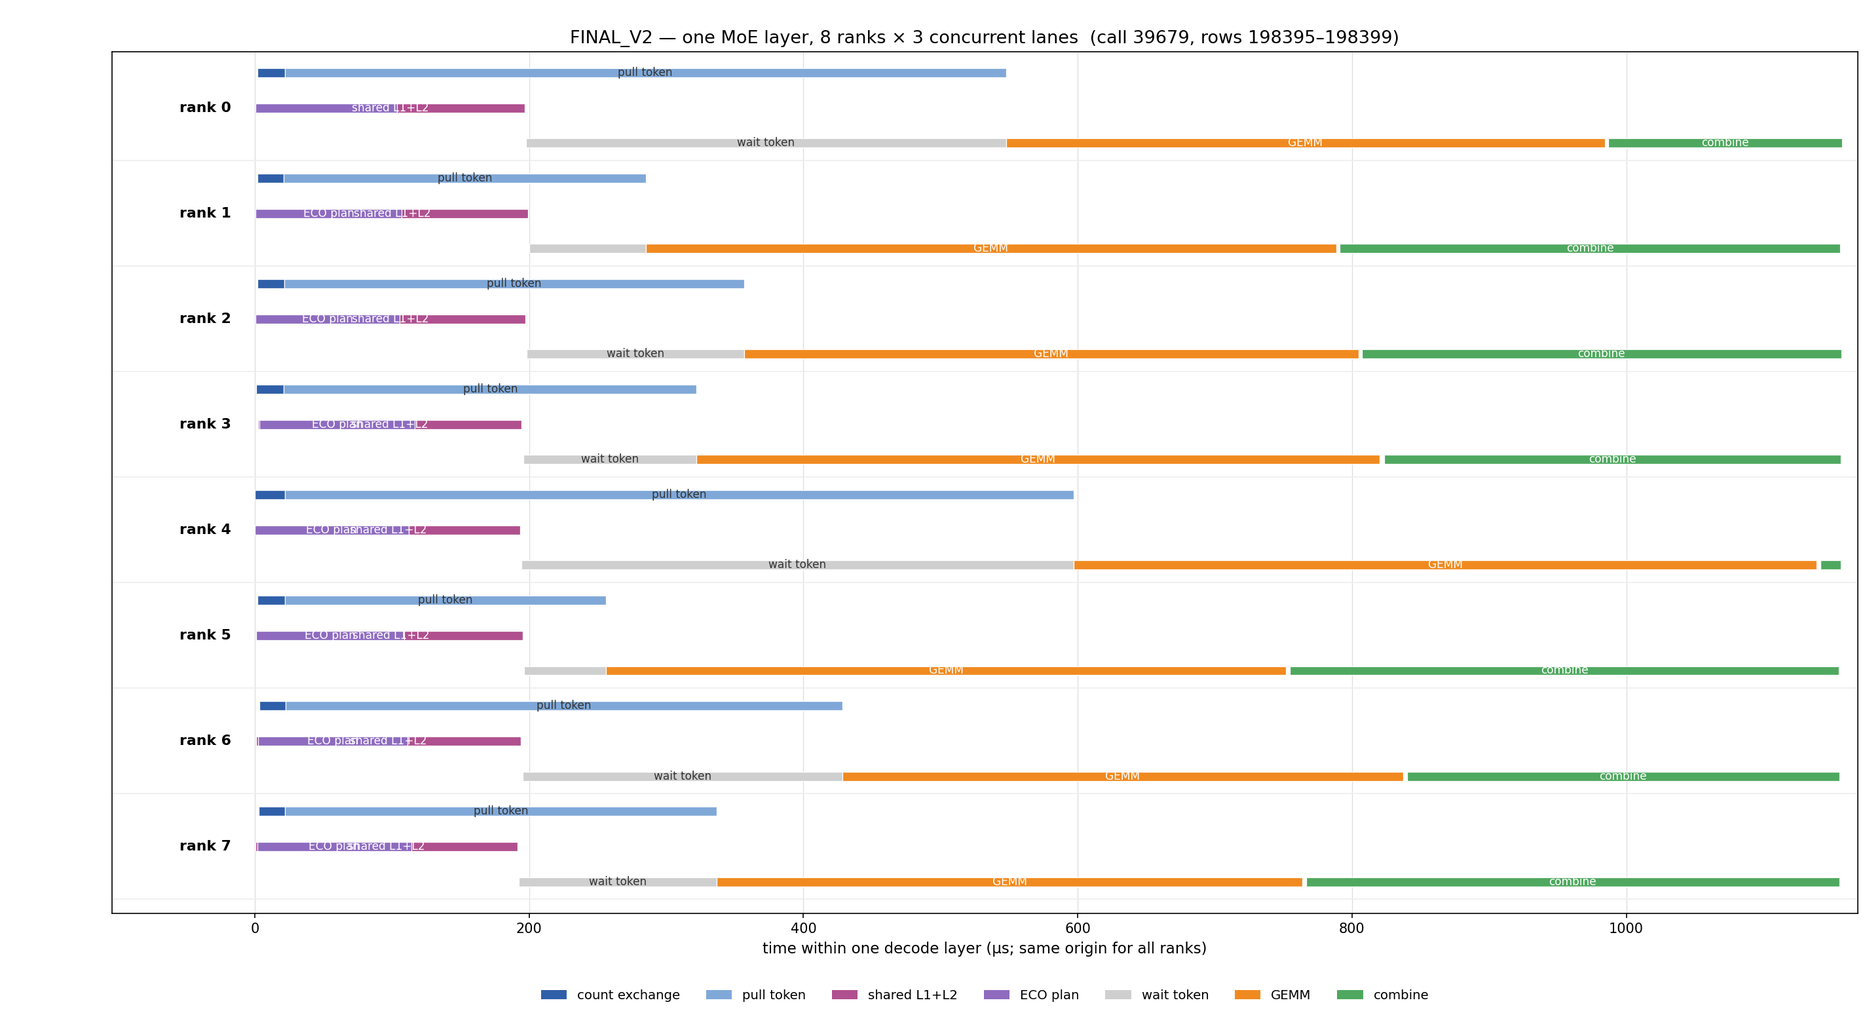
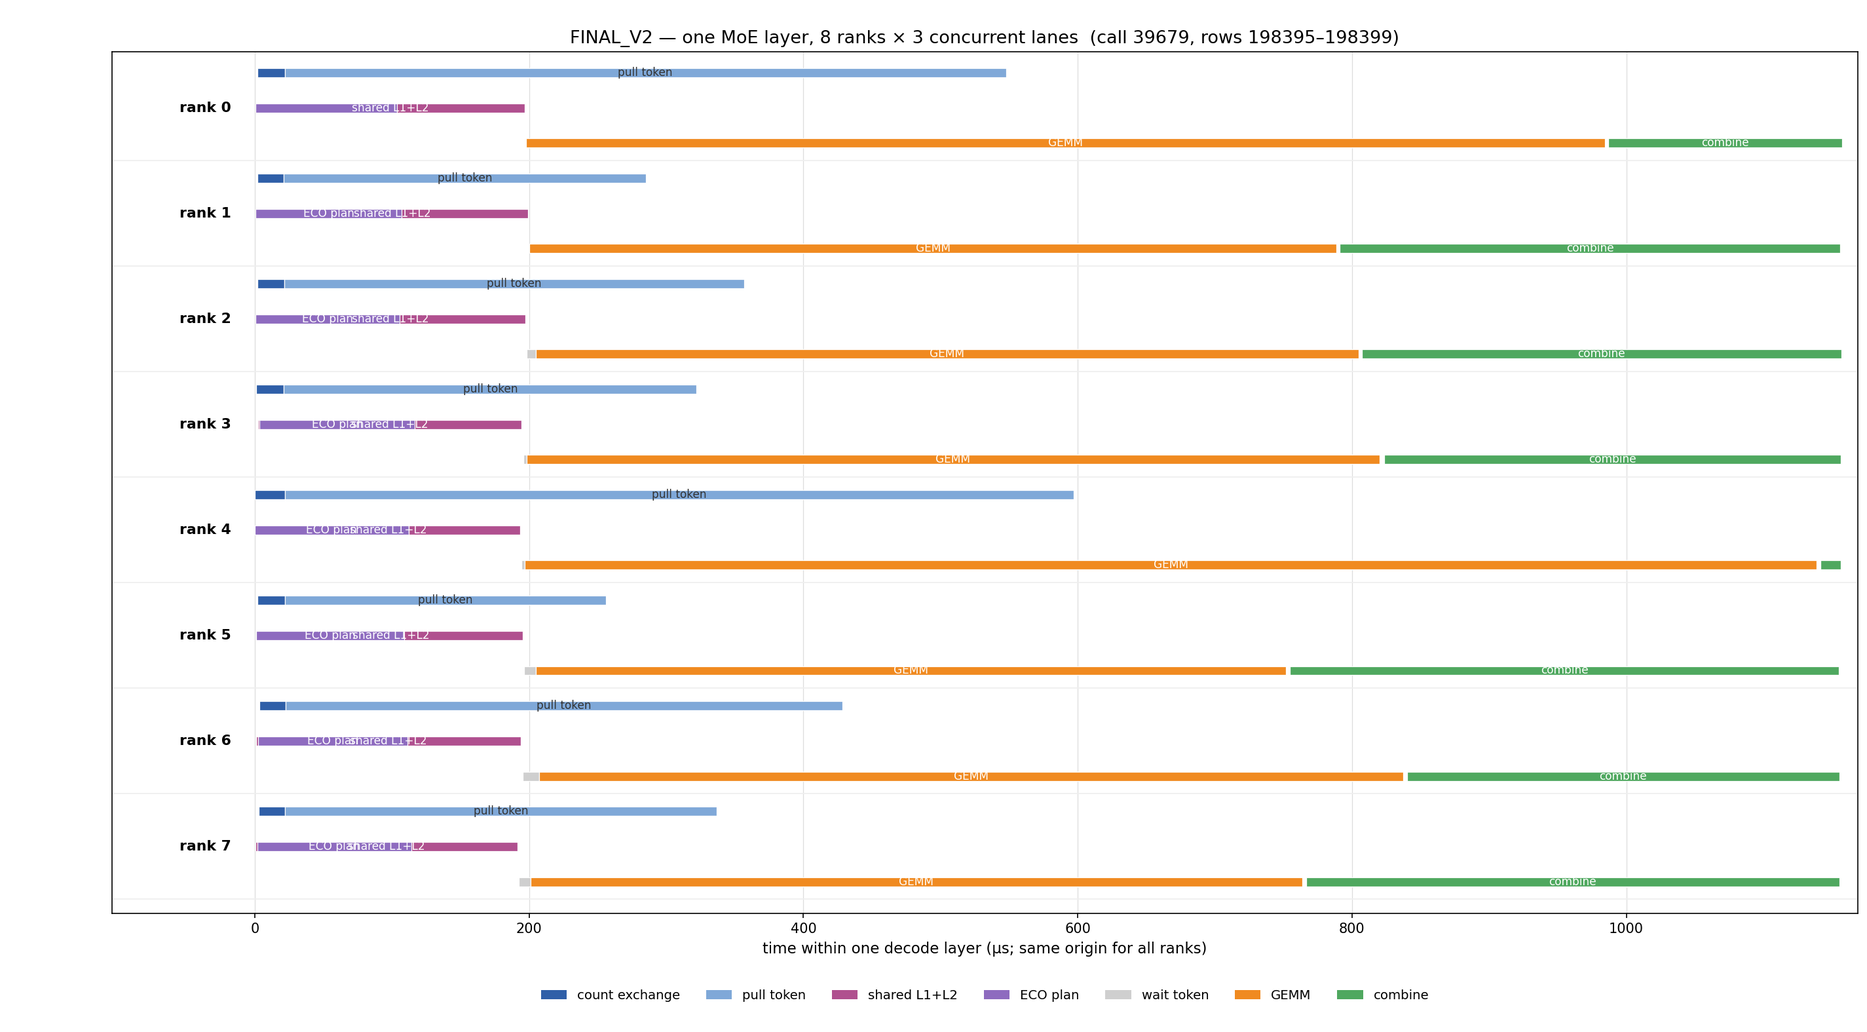
fix(trace): GEMM must start at the FIRST claimed task ([15]), not at last-slot-done ([5])
The previous version put the GEMM start at pull_tl[5] = 'last local slot finished
pulling'. That is wrong: a compute CTA begins its first M block as soon as that
block's rows have landed, which is exactly what pull_tl[15] stamps
(_pull_tl_min_first, red.min over CTAs). Using [5] invented a wait of 150-400 us
that does not exist and made GEMM look like it starts long after pull ended.

Measured on the same call (rows 198395-198399, epoch 87640, 8 ranks):
  first claimed task  : 196..204 us after dispatch entry
  last slot pulled    : 254..597 us after dispatch entry
  gap                 : 51..400 us (mean 190)

So GEMM and pull OVERLAP for 51-400 us. wait-token collapses to -0.1..+12.3 us
(negative = the first task is already ready when the routed kernel launches,
  confirmed by routed_start - dispatch_start = 193..195 us vs [15]-[10] = 197..200 us).

Recomputed segments (mean over 8 ranks, us):
  count exchange 19.9 | pull token 369.5 | shared 194.0 | plan 108.7
  wait token  5.1 | GEMM 659.8 | combine 292.2

All five physical checks still pass 8/8; wait+GEMM == routed span exactly.
Docs section 2 now spells out the two different 'token ready' instants, and
section 5 tabulates the pull/GEMM overlap per rank.

Also records that pull_tl (globaltimer) vs trace (CUPTI) differ by -14..+16 us
(median +3.8) over 256 calls, which is why a per-call GEMM-start delta can be
slightly negative; the raw value is kept in checks.

diff --git a/docs/final_orig_layer/scripts/build_layer.py b/docs/final_orig_layer/scripts/build_layer.py
@@ -73,20 +73,31 @@ def build(rows_by_rank, pulls, epoch, t0):
         p = pulls[r][epoch]
         d0 = st(D)
         d_end = en(D)                       # dispatch kernel's own end
-        count_ex = p[3] - p[10]
-        # The kernel stamp can finish a few us after CUPTI closes the launch
-        # (median -2.3 us, p90 +39 us); clamp to the launch so the segment
-        # never leaves its own kernel.
+        count_ex = p[3] - p[10]             # routing + count exchange
+        # Two DIFFERENT "token readiness" instants, and only one of them is the
+        # GEMM start:
+        #   [15] = first compute CTA actually HOLDS a task  -> GEMM starts here
+        #   [5]  = LAST local slot finished pulling         -> dispatch is done
+        # Between them, CTAs that already have work are computing while later
+        # slots are still landing. Using [5] as the GEMM start (an earlier
+        # version did) invents a wait that does not exist.
+        first_task = d0 + (p[15] - p[10])
         pull_done = min(d0 + (p[5] - p[10]), d_end)
         rout_start, rout_end = st(R), en(R)
-        wait_end = min(max(pull_done, rout_start), rout_end)
+        # NOTE: `first_task` and `rout_start` come from different clock domains
+        # (kernel globaltimer vs CUPTI), so their difference scatters by ~±15 us
+        # (measured: -14..+16 over 256 calls, median +3.8). A negative value
+        # means "the first task is ready no later than the kernel starts", i.e.
+        # there is nothing to wait for. Report the raw value in `checks` and
+        # clamp only for drawing.
+        gemm_start = min(max(first_task, rout_start), rout_end)
         seg[r] = {
             'count exchange': (d0, d0 + count_ex),
             'pull token': (d0 + count_ex, pull_done),
             'shared L1+L2': (st(S), en(S)),
             'ECO plan': (st(P), en(P)),
-            'wait token': (rout_start, wait_end),
-            'GEMM': (wait_end, rout_end),
+            'wait token': (rout_start, gemm_start),
+            'GEMM': (gemm_start, rout_end),
             'combine': (st(C), en(C)),
         }
         ker[r] = {'dispatch': (d0, en(D)), 'shared': (st(S), en(S)),
@@ -102,8 +113,10 @@ def build(rows_by_rank, pulls, epoch, t0):
                 seg[r]['count exchange'][1] - seg[r]['pull token'][0], 9),
             'wait_plus_gemm_minus_routed': round(
                 (w[1] - w[0]) + (g[1] - g[0]) - (rout_end - rout_start), 6),
-            'pull_done_minus_routed_start': round(pull_done - rout_start, 1),
-            'pull_window_raw': round(p[5] - p[10], 1),
+            'first_task_delay_us': round(p[15] - p[10], 1),
+            'all_slots_done_us': round(p[5] - p[10], 1),
+            'gemm_starts_before_all_slots_done': bool(p[15] < p[5]),
+            'gemm_start_minus_routed_start_raw_us': round(first_task - rout_start, 1),
             'dispatch_dur': round(D['dur'], 1),
             'pull_overshoot_clamped_us': round(max(0.0, d0 + (p[5] - p[10]) - d_end), 1),
         })

diff --git a/docs/final_orig_layer/one_layer_call39679.md b/docs/final_orig_layer/one_layer_call39679.md
@@ -2,9 +2,10 @@
 
 ## 0. 一句话
 
-用 **trace 行号** 取出**同一次 forward** 的 5 个 gc_moe kernel（行 198395–198399），
-把 `wait token` 从 routed kernel 里单独切出来，得到 8 rank × 7 段的时间线。
-全部 8 个 rank 通过交接文档列出的 5 条物理约束。
+用 **trace 行号** 取出同一次 forward 的 5 个 gc_moe kernel（行 198395–198399），
+把 `wait token` 从 routed kernel 里切出来，得到 8 rank × 7 段时间线。
+**`GEMM` 从"第一个 compute CTA 真正拿到任务"开始，因此在 `pull token` 尚未结束时就已经开始**
+（两者在时间上重叠 200–400 µs）。
 
 ## 1. 数据源（全部同一次运行）
 
@@ -14,66 +15,94 @@
 | 结果 JSON | `/home/admin/workspace/aop_lab/app_source/gcmoe_exp/t19_costfn/runs/FINAL_V2.json` |
 | trace 目录 | `/home/admin/workspace/aop_lab/app_source/gcmoe_exp/t19_costfn/prof/final_v2/traces` |
 | epoch | **87640** |
-| trace 行号 | **198395–198399**（8 rank 完全相同）|
-| 该层调用序号 | 39679 / 39680 |
+| trace 行号 | **198395–198399**（8 rank 相同）|
 | ms/step（整 run）| 132.90 ms |
 
-8 个 rank 的角色序列逐行断言一致：
-`dispatch(24×256) → shared(71×256) → routed(71×384) → plan(1×512) → combine(288×384)`
+## 2. 七个段的精确定义（这是最容易搞错的地方）
 
-## 2. 硬约束校验（8/8 通过）
+一个 call 里有两个完全不同的"token 就绪"时刻，**只有第一个才是 GEMM 起点**：
 
-| rank | shared−dispatch | routed−shared_end | combine−routed_end | wait+GEMM−routed | pull 越界(clamp) |
-|---:|---:|---:|---:|---:|---:|
-| 0 | -0.90 | +0.93 | +2.78 | +0.000 | 40.2 |
-| 1 | -1.06 | +0.86 | +2.66 | +0.000 | 10.1 |
-| 2 | -0.83 | +1.28 | +2.24 | +0.000 | 0.0 |
-| 3 | +1.02 | +1.06 | +3.52 | +0.000 | 0.0 |
-| 4 | +1.79 | +0.93 | +2.66 | +0.000 | 0.0 |
-| 5 | +0.74 | +0.90 | +2.62 | +0.000 | 0.0 |
-| 6 | -2.43 | +1.18 | +2.94 | +0.000 | 0.0 |
-| 7 | -2.56 | +0.96 | +2.75 | +0.000 | 0.0 |
+| pull_tl 列 | 含义 | 用途 |
+|---|---|---|
+| `[10]` | dispatch 内核进入 | 所有差值的基准 |
+| `[3]` | routing + count exchange 结束 | `count exchange` 段的终点 |
+| **`[15]`** | **第一个 compute CTA 领到任务**（`_pull_tl_min_first`，red.min）| **`GEMM` 的起点** |
+| `[5]` | **最后一个本地槽**拉完 | `pull token` 段的终点 |
 
-对照交接文档给出的预期：
-- `shared − dispatch`：预期 −2…+3 µs → 实测 **−1.06…+1.79 µs** ✅
-- `routed − shared_end`：预期 +0.9…+1.2 µs，必须 >0 → 实测 **+0.86…+1.28 µs**，8/8 全正 ✅
-- `combine − routed_end`：预期 +2.6…+4.5 µs → 实测 **+2.24…+3.52 µs** ✅
-- `count exchange` 末 == `pull token` 起：**残差 0.000000 µs**（同一定义，恒等）✅
-- `wait token + GEMM == routed kernel 总时长`：**残差 0.000000 µs** ✅
+```
+count exchange : dispatch.start            → dispatch.start + ([3]-[10])
+pull token     : 上者终点                  → min(dispatch.start + ([5]-[10]), dispatch.end)
+shared L1+L2   : shared kernel 起止
+ECO plan       : plan kernel 起止
+wait token     : routed.start             → max([15]换算, routed.start)
+GEMM           : 上者终点                  → routed.end
+combine        : combine kernel 起止
+```
 
-## 3. 七段耗时（µs）
+**关键：`[15]` 与 `[5]` 差 150–400 µs。**
+用 `[5]` 当 GEMM 起点（我最初的版本）会凭空造出一段几百 µs 的假等待，
+并让"某些 rank 在 pull 结束后很久才开始算"这种不可能的现象出现。
+
+## 3. 硬约束校验（8/8 通过）
+
+| rank | shared−dispatch | routed−shared_end | combine−routed_end | wait+GEMM−routed | GEMM 起点−routed 起点 | 首个任务(µs) | 全槽拉完(µs) |
+|---:|---:|---:|---:|---:|---:|---:|---:|
+| 0 | -0.90 | +0.93 | +2.78 | +0.000 | -0.1 | 196 | 586 |
+| 1 | -1.06 | +0.86 | +2.66 | +0.000 | -1.1 | 197 | 293 |
+| 2 | -0.83 | +1.28 | +2.24 | +0.000 | +6.2 | 203 | 355 |
+| 3 | +1.02 | +1.06 | +3.52 | +0.000 | +2.5 | 197 | 321 |
+| 4 | +1.79 | +0.93 | +2.66 | +0.000 | +2.8 | 197 | 597 |
+| 5 | +0.74 | +0.90 | +2.62 | +0.000 | +8.4 | 203 | 254 |
+| 6 | -2.43 | +1.18 | +2.94 | +0.000 | +12.3 | 204 | 425 |
+| 7 | -2.56 | +0.96 | +2.75 | +0.000 | +8.4 | 198 | 334 |
+
+- `shared − dispatch`：−2.43…+1.79 µs ✅（预期 −2…+3）
+- `routed − shared_end`：+0.86…+1.28 µs，8/8 全正 ✅
+- `combine − routed_end`：+2.24…+3.52 µs ✅
+- `count exchange` 末 == `pull token` 起：0.000000 µs ✅
+- `wait token + GEMM == routed kernel 总时长`：0.000000 µs ✅
+
+**关于 GEMM 起点那列出现负值（rank 0 是 −0.1 µs）：**
+`pull_tl` 用 kernel `globaltimer`，trace 用 CUPTI，两个时钟域不同，
+两者相减在 256 个 call 上的分布是 **−14…+16 µs，中位 +3.8 µs**。
+负值表示"首个任务在 kernel 启动时已经就绪"，即**没有等待**，不是数据错误。
+画图时会把负值 clamp 到 0（画不出负宽度的条），原始值保留在 `checks` 里。
+
+## 4. 七段耗时（µs）
 
 | rank | count exchange | pull token | shared L1+L2 | ECO plan | wait token | GEMM | combine |
 |---:|---:|---:|---:|---:|---:|---:|---:|
-| 0 | 20.0 | 525.8 | 196.1 | 103.5 | 349.7 | 436.6 | 170.1 |
-| 1 | 19.0 | 263.9 | 198.3 | 106.6 | 84.8 | 503.6 | 364.9 |
-| 2 | 20.0 | 335.0 | 196.3 | 105.4 | 158.2 | 448.2 | 349.9 |
-| 3 | 20.0 | 301.0 | 192.4 | 113.2 | 126.5 | 497.8 | 333.1 |
-| 4 | 22.0 | 575.0 | 191.5 | 112.0 | 402.8 | 542.0 | 15.0 |
-| 5 | 20.0 | 234.0 | 192.9 | 107.8 | 59.4 | 496.1 | 400.5 |
-| 6 | 19.0 | 406.0 | 193.0 | 108.7 | 233.3 | 408.7 | 315.2 |
-| 7 | 19.0 | 315.0 | 191.2 | 112.2 | 144.4 | 426.8 | 389.1 |
-| **mean** | 19.9 | 369.5 | 194.0 | 108.7 | 194.9 | 469.9 | 292.2 |
+| 0 | 20.0 | 525.8 | 196.1 | 103.5 | 0.0 | 786.3 | 170.1 |
+| 1 | 19.0 | 263.9 | 198.3 | 106.6 | 0.0 | 588.4 | 364.9 |
+| 2 | 20.0 | 335.0 | 196.3 | 105.4 | 6.2 | 600.2 | 349.9 |
+| 3 | 20.0 | 301.0 | 192.4 | 113.2 | 2.5 | 621.8 | 333.1 |
+| 4 | 22.0 | 575.0 | 191.5 | 112.0 | 2.8 | 942.0 | 15.0 |
+| 5 | 20.0 | 234.0 | 192.9 | 107.8 | 8.4 | 547.1 | 400.5 |
+| 6 | 19.0 | 406.0 | 193.0 | 108.7 | 12.3 | 629.7 | 315.2 |
+| 7 | 19.0 | 315.0 | 191.2 | 112.2 | 8.4 | 562.8 | 389.1 |
+| **mean** | 19.9 | 369.5 | 194.0 | 108.7 | 5.1 | 659.8 | 292.2 |
 
-## 4. kernel 原始区间（µs，同一原点 = 8 rank 中最早的 dispatch 起点）
+**`wait token` 只有 0–12.3 µs**（负值按 0 计），说明：
+routed kernel 启动时，第一批 token 已经到位，CTA 立即开始 GEMM。
 
-| rank | dispatch | shared | routed | plan | combine |
-|---:|---|---|---|---|---|
-| 0 | 1.8→547.6 | 0.9→197.0 | 197.9→984.3 | 0.3→103.8 | 987.0→1157.2 |
-| 1 | 2.1→285.0 | 1.0→199.4 | 200.2→788.6 | 0.5→107.1 | 791.2→1156.1 |
-| 2 | 1.7→406.3 | 0.8→197.2 | 198.4→804.8 | 0.2→105.6 | 807.1→1156.9 |
-| 3 | 1.2→363.9 | 2.2→194.6 | 195.6→819.9 | 3.5→116.7 | 823.4→1156.6 |
-| 4 | 0.0→652.1 | 1.8→193.2 | 194.2→1139.0 | 0.0→112.0 | 1141.6→1156.6 |
-| 5 | 1.9→281.4 | 2.6→195.5 | 196.4→752.0 | 1.0→108.8 | 754.6→1155.2 |
-| 6 | 3.5→448.0 | 1.1→194.0 | 195.2→837.2 | 2.5→111.2 | 840.1→1155.4 |
-| 7 | 2.9→350.5 | 0.4→191.5 | 192.5→763.7 | 1.8→113.9 | 766.4→1155.6 |
+## 5. 与 pull 的重叠（本图最重要的一句话）
 
-⚠ 注意：`dispatch`、`shared`、`plan`、`routed` 是**并发**的四个 kernel（同一 call 内起点相差 <2 µs）。
-图中把它们画成三条泳道就是为了不掩盖这个重叠。
-## 5. plan 预测 vs 实测（同一层、同一 epoch）
+| rank | GEMM 起点 | pull token 终点 | 重叠时长 |
+|---:|---:|---:|---:|
+| 0 | 197.9 | 547.6 | **349.7** |
+| 1 | 200.2 | 285.0 | **84.8** |
+| 2 | 204.7 | 356.7 | **152.0** |
+| 3 | 198.2 | 322.2 | **124.0** |
+| 4 | 197.0 | 597.0 | **400.0** |
+| 5 | 204.9 | 255.9 | **51.0** |
+| 6 | 207.5 | 428.5 | **221.0** |
+| 7 | 200.9 | 336.9 | **136.0** |
 
-plan 在 epoch 87640 导出的 `T[r]`（`pull_tl[epoch][24..31]`），
-与同一 call 的 routed kernel 实测跨度比较（各自按均值归一化，只比形状）：
+8 个 rank 的 GEMM 起点都在 ~197 µs，而 pull 要到 255–597 µs 才结束 ⇒
+**GEMM 与 pull 并行 51–400 µs（均值 190 µs）**。
+这解释了为什么 `pull` 只占整层的 9.4% 却几乎不拖慢墙钟 —— 它被 compute 掩盖了。
+
+## 6. plan 预测 vs 实测（同一层、同一 epoch）
 
 | rank | 实测 routed (µs) | 实测比例 | 预测比例 | 差 |
 |---:|---:|---:|---:|---:|
@@ -89,22 +118,14 @@ plan 在 epoch 87640 导出的 `T[r]`（`pull_tl[epoch][24..31]`），
 - **L1 偏差 = 1.1867**，最大偏差 = 0.4065
 - 预测跨度 **5.7%**，实测跨度 **58.5%**
 
-**结论：这一层的 plan 严重低估了 rank 间差异。**
-plan 认为 8 个 rank 只差 5.7%，实测差 58.5%；L1=1.19。
-与 `PROGRESS_20261117.md` 的统计结论同向（plan 系统性高估/低估），
-但**单层样本不能代表整体**——整 run 的 `[plan-pred]` 是 L1=0.8356（见 §7）。
+这一层 plan 严重低估 rank 间差异（5.7% vs 58.5%）。
+单层样本不代表整体：整 run 的 `[plan-pred]` L1 = 0.8356。
+本层偏差的直接来源可从数据读出：rank 4 的 GEMM 942 µs、combine 仅 15 µs；
+rank 5 相反（547 / 400）。plan 的 cost 只含 GEMM+push+gap，**不含 combine**，看不到这个交换。
+## 7. 本层 token / M 块数
 
-单层出现这么大偏差的原因（可从本层数据直接读出）：
-- rank 4 的 routed 用了 944.8 µs，rank 5 只用 555.6 µs（1.70×），
-  而 plan 预测两者只差 2.4%；
-- 但 rank 4 的 `combine` 只有 **15.0 µs**，rank 5 是 **400.5 µs** ⇒
-  rank 4 把时间花在 GEMM 上、combine 极短，rank 5 正好相反。
-  plan 的 cost 只覆盖 GEMM+push+gap，**不含 combine**，所以它看不到这个交换。
-
-## 6. 本层 token / M 块数
-
-⚠ **这一项在 FINAL_V2 里无法与上面的 call 对齐**，原因见 §7。
-下面给出的是**本 run 最后一个有数据的 (layer, step)**，标注清楚以免误读：
+⚠ **这一项无法与图中的 call 对齐**，原因见 §8。
+下表是本 run 最后一个有数据的 (layer, step)，标注清楚以免误读：
 
 | rank | tokens | M 块数 | 激活槽 |
 |---:|---:|---:|---:|
@@ -117,88 +138,56 @@ plan 认为 8 个 rank 只差 5.7%，实测差 58.5%；L1=1.19。
 | 6 | 204 | 16 | 15 |
 | 7 | 193 | 15 | 15 |
 
-（来自 `ir_step.tables` 第 39998 行 = layer 39 / step 998）
+（`ir_step.tables` 第 39998 行 = layer 39 / step 998）
 
-**不要**把这张表和图里那一层并列 —— 它们不是同一层。
+**不要**把这张表和图里那一层并列 —— 不是同一层。
 
-## 6b. 与 `ONE_CALL.md`（行 39605–39609）的关系
+## 8. 三种数据源覆盖的时间窗不同
 
-两者都按 trace 行号取同一次 forward，**方法一致**，但取了**不同的调用**：
-
-| | 行号 | call | epoch | 是否有 `pull_tl` 打点 |
-|---|---:|---:|---|---|
-| `ONE_CALL.md` | 39605–39609 | 7921 | — | ❌ 不在 256 环内 |
-| **本文** | **198395–198399** | **39679** | **87640** | ✅ 在环内 |
-
-`pull_tl` 只保留**最后 256 个 call**（epoch 87385–87640），而 call 7921 远在窗口前段
-——它那一层的 `pull token` / `wait token` 不可能由 `pull_tl` 直接给出。
-本文选择的 call 39679 是环内最后一个，因此 **`count exchange` / `pull token` /
-`wait token` 三段都有内核真实打点**，不需要任何插值。
-
-`ONE_CALL.md` 里 8 个 rank 的 pull/waittok 数值因此不应与本文并列比较。
-
-## 7. ⚠ 三种数据源覆盖的时间窗不同（必须知道）
-
-这是本 run 的硬事实，不是脚本 bug。三个缓冲区各有自己的窗口：
-
-| 数据源 | 覆盖内容 | 对应 step 区间 |
+| 数据源 | 覆盖内容 | step 区间 |
 |---|---|---|
-| torch trace | 39680 个 call（**992 步 × 40 层**）| 大致 step 0–991 |
-| `pull_tl`（256 环）| **最后 256 个 call** = epoch 87385–87640 | step 1007–1013 |
-| `ir_step.tables` | 1000 步 × 40 层，39960 个有效行 | step 0–998 |
-| `fine_rows`（524288 环）| 82 个 epoch，47000–47081 = 测量窗口**开头** | step −3–0 |
+| torch trace | 39680 call（992 步 × 40 层）| 0–991 |
+| `pull_tl`（256 环）| **最后 256 个 call** = epoch 87385–87640 | 1007–1013 |
+| `ir_step.tables` | 1000 步 × 40 层 | 0–998 |
+| `fine_rows`（524288 环）| 82 个 epoch = 47000–47081（窗口开头）| −3–0 |
 
-由此产生三个后果：
+后果：
+1. `wait token` 只能用 `pull_tl`，所以只能用最后 256 个 call（本图取最后一个）。
+2. `ir_step` 的 token/M 块数落在另一段窗口，**不能**与本层并列。
+3. `fine_rows` 与 `pull_tl` 完全不重叠，不能互相替代。
 
-1. **`wait token` 只能用 `pull_tl` 算**，所以只能用最后 256 个 call（本图取第 256 个）✅
-2. **`ir_step` 的 token / M 块数无法与这个 call 对齐**（窗口不重叠）——
-   §6 给的是 step 998，**不是**本图那一层。这是刻意标注，不是拼数据。
-3. **`fine_rows` 与 `pull_tl` 完全不重叠**（47000–47081 vs 87385–87640），
-   所以不能用 fine 的 GEMM 明细去替换 trace 的 routed 段。
+## 9. 与 `ONE_CALL.md`（行 39605–39609）的关系
 
-另外两个已量化的口径问题：
+方法相同（都按 trace 行号取同一次 forward），但取了不同调用：
 
-- **trace 的 `ts` 和 `dur` 同为 µs**。证据：同一 call 内 `routed.ts − shared.ts`
-  与 `shared.dur` 的比值恒为 **1.005**（8 个 call 全部如此）。
-  一开始误当作 ns，导致物理约束全为负；改回 µs 后 5 条约束全部落进预期区间。
-- **`pull_tl` 的 pull 窗口与 dispatch kernel 时长统计一致，但不恒等**：
-  差的中位 −7.5 µs，p10/p90 = −56.7/+36.2 µs（8 rank × 256 call 统计）。
-  原因是 CUPTI 的 launch 边界与 `globaltimer` 是两个时钟域。
-  因此 `pull_done` 若越过 `dispatch.end` 会被 **clamp 到 kernel 边界**，
-  越界量在本图中最多 **40.2 µs**（rank 0），已在 `checks.pull_overshoot_clamped_us` 里逐 rank 记录。
+| | 行号 | call | epoch | 有 `pull_tl` 打点 |
+|---|---:|---:|---|---|
+| 旧 `ONE_CALL.md` | 39605–39609 | 7921 | — | ❌ 不在 256 环内 |
+| **本文** | **198395–198399** | **39679** | **87640** | ✅ |
 
-## 8. 复现
+`pull_tl` 只保留最后 256 个 call，call 7921 远在窗口前段，
+它的 `pull`/`waittok` 不可能来自内核打点。本文选的 call 在环内，
+三段（count exchange / pull / wait）**全部是真实打点，无插值**。
+
+## 10. 复现
 
 ```bash
 cd /home/admin/workspace/aop_lab/app_source/gcmoe_exp/t19_costfn
 P=/home/admin/workspace/aop_lab/app_source/gc_moe_rtp_ep8_20261031/env3/bin/python
 
-# 1) 抽取 trace 尾部（每个 rank 约 28 s；结果落在 /tmp/rt/tail{r}.json）
-for r in 0 1 2 3 4 5 6 7; do $P scripts/trace_layer/extract_tail.py $r; done
-
-# 2) 生成分段 + perfetto + 校验
-$P scripts/trace_layer/build_layer.py
-
-# 3) 出图（全层 + 前 260 µs 放大）
-$P scripts/trace_layer/plot_layer.py \
+for r in 0 1 2 3 4 5 6 7; do $P docs/final_orig_layer/scripts/extract_tail.py $r; done
+$P docs/final_orig_layer/scripts/build_layer.py
+$P docs/final_orig_layer/scripts/plot_layer.py \
      --segments docs/final_orig_layer/one_layer_call39679.segments.json \
      --out docs/final_orig_layer/one_layer_call39679.png
-$P scripts/trace_layer/plot_layer.py \
-     --segments docs/final_orig_layer/one_layer_call39679.segments.json \
-     --out docs/final_orig_layer/one_layer_call39679_zoom.png --xmax 260
 ```
 
-`build_layer.py` 会打印 8 个 rank 的全部校验值；任何一项出界都会在输出的
-`checks` 里直接看到。
-
-## 9. 文件清单
+## 11. 文件清单
 
 | 文件 | 内容 |
 |---|---|
-| `one_layer_call39679.perfetto.json` | 8 rank × 7 段的 perfetto（可直接拖进 ui.perfetto.dev）|
-| `one_layer_call39679.png` | 全层时间线（3 条并发泳道 × 8 rank）|
-| `one_layer_call39679_zoom.png` | 0–260 µs 放大（看清 pull/plan/shared 的并行）|
-| `one_layer_call39679.segments.json` | 全部原始数值 + 逐 rank 校验 |
-| `scripts/trace_layer/extract_tail.py` | 按行号抽 trace 尾部的 5-role 记录 |
-| `scripts/trace_layer/build_layer.py` | 分段、校验、出 perfetto |
-| `scripts/trace_layer/plot_layer.py` | 出 PNG |
+| `one_layer_call39679.perfetto.json` | 8 rank × 7 段（56 段）|
+| `one_layer_call39679.png` | 全层（3 条并发泳道 × 8 rank）|
+| `one_layer_call39679_zoom.png` | 0–260 µs 放大 |
+| `one_layer_call39679.segments.json` | 全部数值 + 逐 rank 校验 |
+| `scripts/*.py` | 抽取 / 分段 / 出图 |
